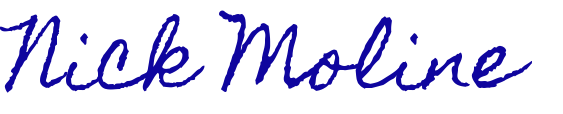
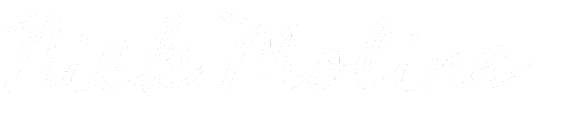
Update colors

diff --git a/_includes/styles.scss b/_includes/styles.scss
@@ -2,7 +2,7 @@
 @import 'syntax-highlighting';
 
 $grey-color: #999;
-$theme-color: #a9abf2;
+$theme-color: #0f059e;
 
 .icon {
 
